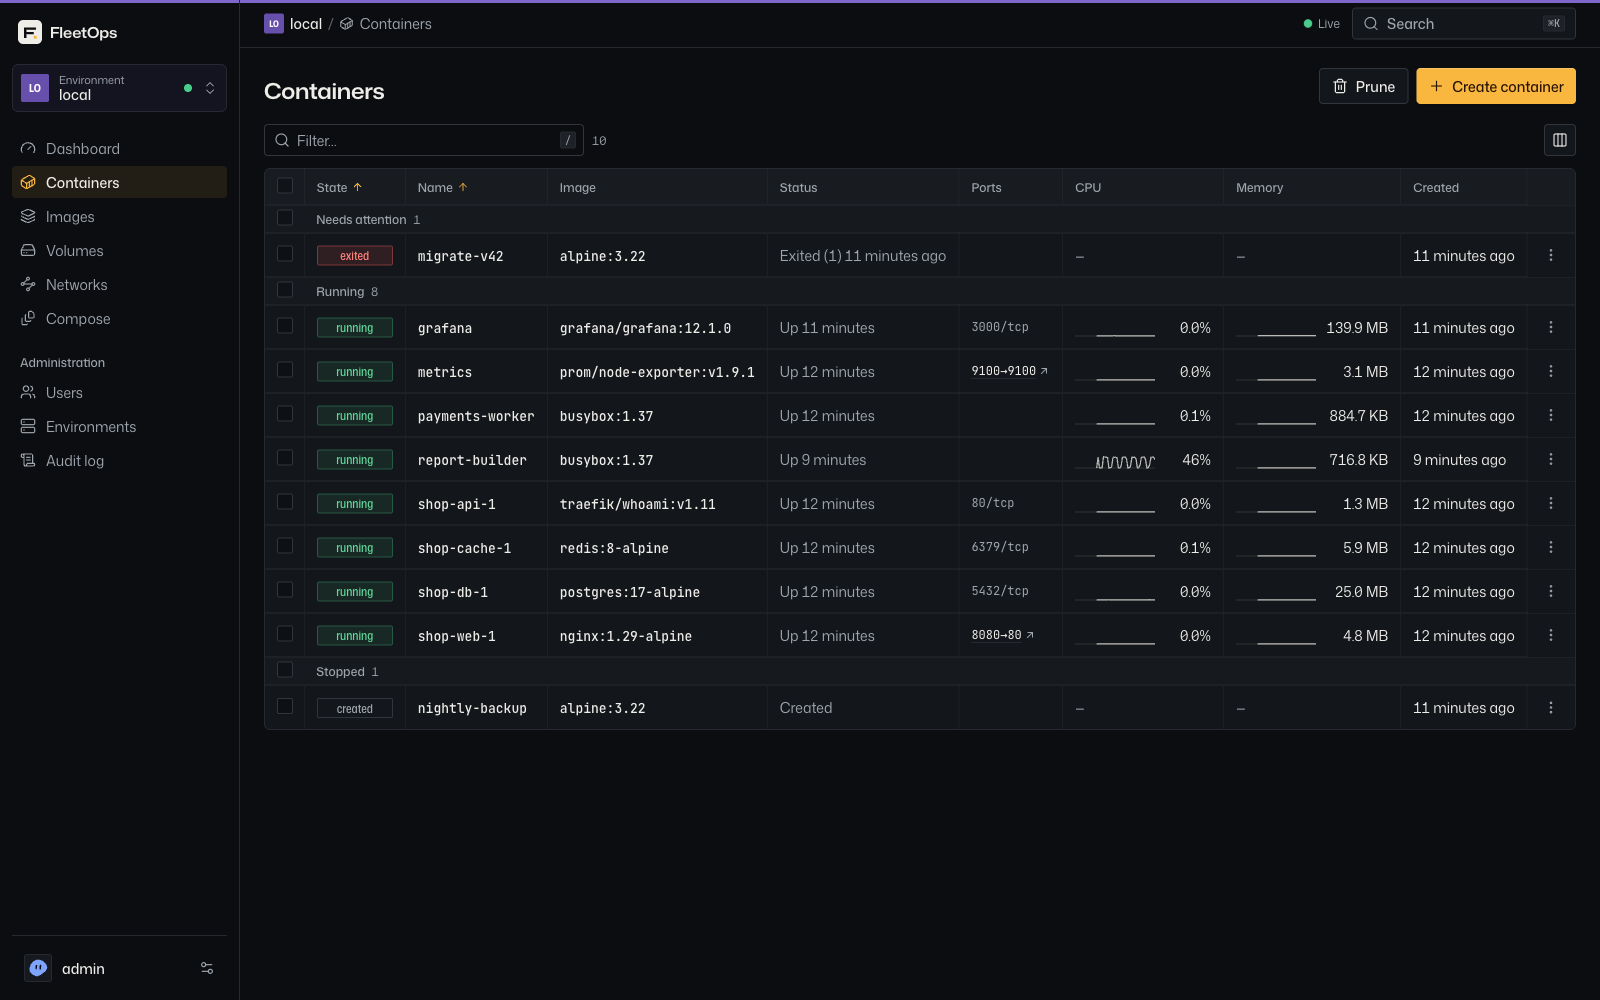
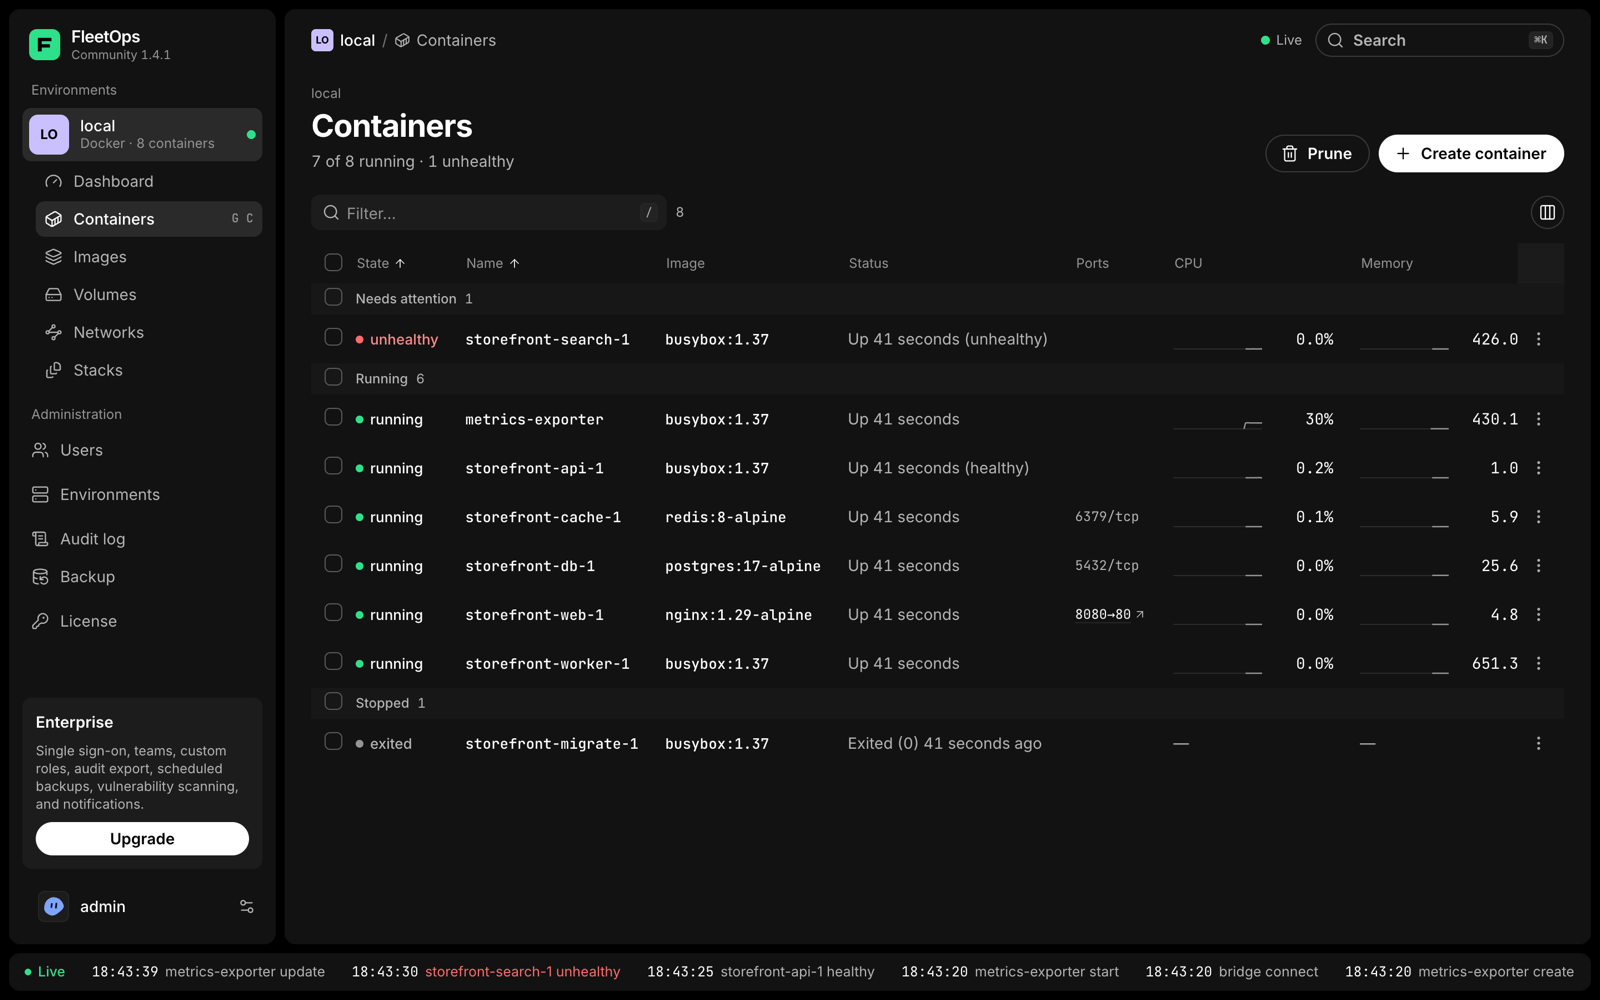
docs(readme): screenshots from 1.4.1

diff --git a/README.md b/README.md
@@ -29,7 +29,7 @@ It is an open-source alternative to Portainer: roles, Kubernetes namespace scopi
 <table>
   <tr>
     <td width="50%"><img src="docs/images/containers.png" alt="Container list grouped by state, with ports and live CPU and memory sparklines"></td>
-    <td width="50%"><img src="docs/images/logs.png" alt="Log viewer with timestamps, ANSI colours and search highlighting"></td>
+    <td width="50%"><img src="docs/images/logs.png" alt="Log viewer following a container's logs, with search matches highlighted"></td>
   </tr>
   <tr>
     <td align="center">Containers, with live CPU and memory</td>
